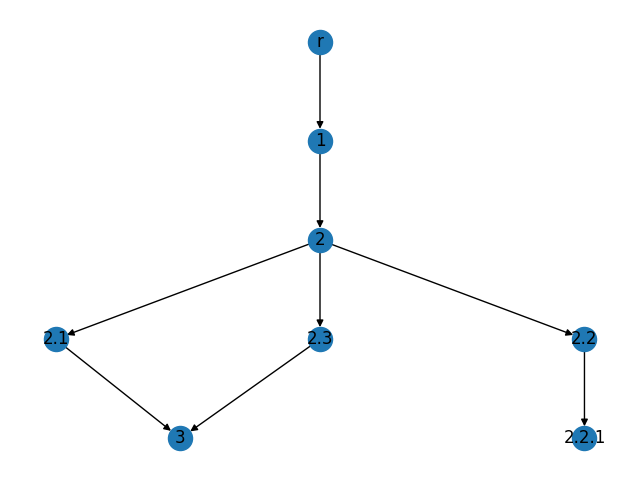
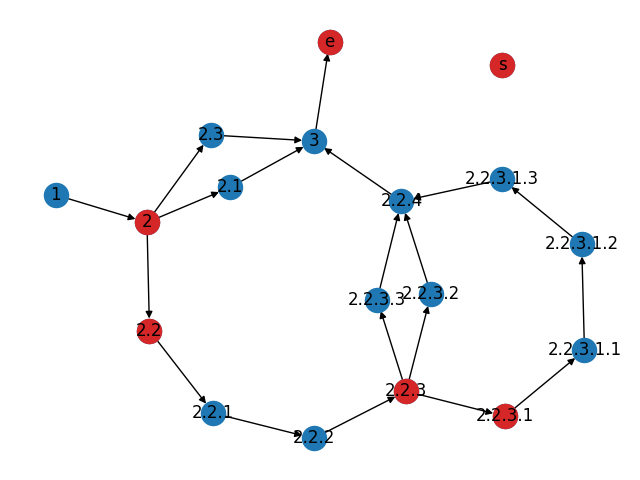
Improved graph visualization for debugging purpose

diff --git a/ansible-workflow/main.py b/ansible-workflow/main.py
@@ -27,29 +27,51 @@ class PNode(Node):
     def __init__(self, id, playbook):
         super(PNode, self).__init__(id)
         self.__playbook = playbook
+    
+    def get_playbook(self):
+        return self.__playbook
 
+def nudge(pos, x_shift, y_shift):
+    return {n:(x + x_shift, y + y_shift) for n,(x,y) in pos.items()}
 
 class AnsibleWorkflow():
-    def __init__(self):
+    def __init__(self, workflow_file):
         self.__graph = nx.DiGraph()
         self.__frontier = []
         self.__allowed_node_keys = set(['block', 'import_playbook', 'name', 'strategy', 'id'])
+        self.__workflow_filename = workflow_file
+        self.__import_file(self.__workflow_filename)
 
     def _get_input(self, filename):
         with open(filename, 'r') as stream:
             data_loaded = yaml.safe_load(stream)
         return data_loaded
 
-    def import_file(self, filename):
-        root_node=BNode('r')
-        self.__graph.add_node('r', data=root_node)
-        #self.__frontier.append(root_node)
-        self._import_nodes(self._get_input(filename), [root_node,],  strategy='serial')
-        pos=nx.nx_agraph.graphviz_layout(self.__graph)
-        nx.draw(self.__graph, pos=pos)
-        nx.draw_networkx_labels(self.__graph, pos=pos)
-        print("%s" % list(self.__graph))
-        plt.savefig("path.png")
+    def __import_file(self, filename):
+        input_file_data = self._get_input(filename)
+        input_file_data.insert(0, dict(id='s',block=[]))
+        input_file_data.append(dict(id='e',block=[]))
+        self._import_nodes(input_file_data, [], strategy='serial')
+
+
+    def draw_graph(self):
+        pos=nx.nx_agraph.graphviz_layout(self.__graph)        
+        nx.draw(self.__graph, pos=pos, verticalalignment='top')
+        
+        # draw labels
+        label_position = nudge(pos, 0, 15) 
+        labels = {n: '' if isinstance(d['data'], BNode) else d['data'].get_playbook() for n, d in  list(self.__graph.nodes(data=True)) }
+        nx.draw_networkx_labels(self.__graph,labels=labels, pos=label_position, font_size=10)
+        
+        # draw block nodes differently
+        block_nodes=[n for n, d in  list(self.__graph.nodes(data=True)) if isinstance(d['data'], BNode) and d['data'].get_id() != 's' and d['data'].get_id() != 'e']        
+        nx.draw_networkx_nodes(self.__graph, pos, nodelist=block_nodes, node_size=350, node_color="#777")
+        
+        # draw start and end node differently
+        nx.draw_networkx_nodes(self.__graph, pos, nodelist=['s'], node_size=500, node_color="#580")
+        nx.draw_networkx_nodes(self.__graph, pos, nodelist=['e'], node_size=500, node_color="#a10")
+
+        plt.savefig(self.__workflow_filename + '.png')
 
     def _check_node_syntax(self, node):
         remaining_keys = set(node.keys()) - self.__allowed_node_keys
@@ -67,7 +89,7 @@ class AnsibleWorkflow():
             
             # generate a node identifier
             gnode_id= inode.get('id',''.join(random.choice(string.ascii_uppercase + string.digits) for _ in range(5)))
-            print("-->> %s node: %s       parents: %s       zero_outgree: %s" % (indentation, gnode_id, [p.get_id() for p in parent_nodes], [p.get_id() for p in  zero_outdegree_nodes]))
+            print("-->> %s node: %s       parents: %s       zero_outdegree: %s" % (indentation, gnode_id, [p.get_id() for p in parent_nodes], [p.get_id() for p in  zero_outdegree_nodes]))
             
             for parent_node in parent_nodes:
                 self.__graph.add_edge(parent_node.get_id(), gnode_id)
@@ -98,20 +120,19 @@ class AnsibleWorkflow():
 
             # if the strategy is serial
             if strategy == 'serial':
-                if 'block' in inode:
-                    # add the node from the subtree as parent
+                if 'block' in inode and len(inode['block']) > 0:
+                    # add the node from the subtree as parent                    
                     parent_nodes = block_sub_nodes
                 else:
                     # or add current node as the parent
                     parent_nodes = [gnode,]
-            print("<<-- %s node: %s       parents: %s       zero_outgree: %s" % (indentation, gnode_id, [p.get_id() for p in parent_nodes], [p.get_id() for p in  zero_outdegree_nodes]))
+            print("<<-- %s node: %s       parents: %s       zero_outdegree: %s" % (indentation, gnode_id, [p.get_id() for p in parent_nodes], [p.get_id() for p in  zero_outdegree_nodes]))
         return zero_outdegree_nodes
 
 
 def main():
-    aw = AnsibleWorkflow()
-    i = aw.import_file("../examples/input4.yml")
-
+    aw = AnsibleWorkflow("../examples/input4.yml")
+    aw.draw_graph()
 
 if __name__ == "__main__":
     main()
